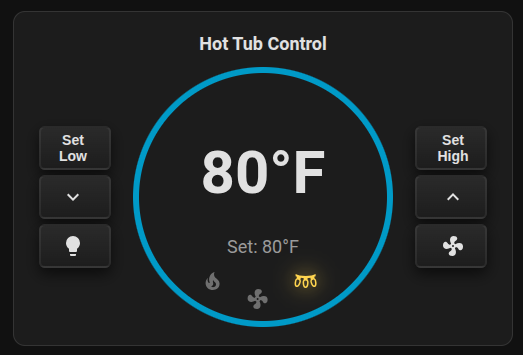
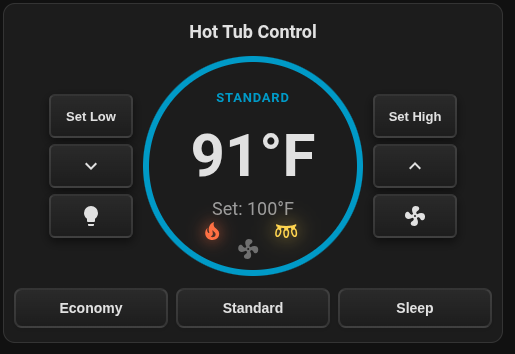
Fixed mode change operator

diff --git a/esp32-spa/inputs/esp32-spa.h b/esp32-spa/inputs/esp32-spa.h
@@ -200,8 +200,11 @@ class HotTubDisplaySensor : public esphome::Component, public esphome::sensor::S
       {0b0111011, 'Y'}, // Y
       {0b0111101, 'd'}, // d 
       {0b0000101, 'r'}, // r
-      {0b1011011, 'S'}, // S (same pattern as '5')
-      {0b0010101, 'n'}  // n (segments c,e,g)
+      {0b1011011, 'S'}, // S 
+      {0b0010101, 'n'}, // n 
+      {0b1001111, 'E'}, // E 
+      {0b0001111, 't'}, // t 
+      {0b0001101, 'c'}  // c 
     };
 
     // Prefer letter matches only (we intentionally avoid returning digits here)
@@ -267,10 +270,10 @@ class HotTubDisplaySensor : public esphome::Component, public esphome::sensor::S
       gpio_set_level((gpio_num_t)PIN_WRITE_BTN2, 0);
     });
     // Press LIGHTS 1s after the cool press to also capture the current heating mode on boot
-    this->set_timeout("boot_press_light_on",  6200, []() {
+    this->set_timeout("boot_press_light_on",  6700, []() {
       gpio_set_level((gpio_num_t)PIN_WRITE_BTN3, 1);
     });
-    this->set_timeout("boot_press_light_off", 6400, []() {
+    this->set_timeout("boot_press_light_off", 6900, []() {
       gpio_set_level((gpio_num_t)PIN_WRITE_BTN3, 0);
     });
   }
@@ -304,8 +307,8 @@ class HotTubDisplaySensor : public esphome::Component, public esphome::sensor::S
         // Ensure we release it after a short duration (mirror existing press timing)
         this->set_timeout("auto_press_cool", 200, [](){ gpio_set_level((gpio_num_t)PIN_WRITE_BTN2, 0); });
         // Press Lights 1s after Cool press to also capture the current heating mode
-        this->set_timeout("auto_press_light_on",  1200, []() { gpio_set_level((gpio_num_t)PIN_WRITE_BTN3, 1); });
-        this->set_timeout("auto_press_light_off", 1400, []() { gpio_set_level((gpio_num_t)PIN_WRITE_BTN3, 0); });
+        this->set_timeout("auto_press_light_on",  1700, []() { gpio_set_level((gpio_num_t)PIN_WRITE_BTN3, 1); });
+        this->set_timeout("auto_press_light_off", 1900, []() { gpio_set_level((gpio_num_t)PIN_WRITE_BTN3, 0); });
         // Update timer to avoid repeated presses
         last_set_sent_time_ms = now;
         // Also reset heartbeat timing so we don't immediately publish stale data
@@ -497,27 +500,33 @@ class HotTubDisplaySensor : public esphome::Component, public esphome::sensor::S
     // Publish spa mode when a stable mode string is detected
     if (is_mode_string) {
       std::string mode_str;
-      if      (c2_char == 'E') mode_str = "economy";
-      else if (c2_char == 'S' && c3_char == 'L') mode_str = "sleep";
-      else                     mode_str = "standard";
+      if      (c2_char == 'S' && c3_char == 't') mode_str = "Standard";
+      else if (c2_char == 'E' && c3_char == 'c') mode_str = "Economy";
+      else if (c2_char == 'S' && c3_char == 'L') mode_str = "Sleep";
+      else                                        mode_str = ""; // unrecognised — skip
 
-      if (candidate_mode_ == mode_str) { if (stable_mode_ < 255) stable_mode_++; }
-      else                             { candidate_mode_ = mode_str; stable_mode_ = 1; }
+      if (!mode_str.empty()) {
+        if (candidate_mode_ == mode_str) { if (stable_mode_ < 255) stable_mode_++; }
+        else                             { candidate_mode_ = mode_str; stable_mode_ = 1; }
 
-      if (stable_mode_ >= MODE_STABLE_THRESHOLD && mode_str != last_mode_) {
-        last_mode_ = mode_str;
-        if (spa_mode_text_sensor_) spa_mode_text_sensor_->publish_state(last_mode_);
-        ESP_LOGI(TAG, "Spa mode published: %s", last_mode_.c_str());
-      }
-    } else if (temp >= 0) {
-      // Valid temperature visible -> standard operation
-      if (candidate_mode_ != "standard") { candidate_mode_ = "standard"; stable_mode_ = 1; }
-      else if (stable_mode_ < 255) stable_mode_++;
+        if (stable_mode_ >= MODE_STABLE_THRESHOLD && mode_str != last_mode_) {
+          last_mode_ = mode_str;
+          if (spa_mode_text_sensor_) spa_mode_text_sensor_->publish_state(last_mode_);
+          ESP_LOGI(TAG, "Spa mode published: %s", last_mode_.c_str());
 
-      if (stable_mode_ >= MODE_STABLE_THRESHOLD && last_mode_ != "standard") {
-        last_mode_ = "standard";
-        if (spa_mode_text_sensor_) spa_mode_text_sensor_->publish_state(last_mode_);
-        ESP_LOGI(TAG, "Spa mode published: standard (normal operation)");
+          // Mode appearing means Light was pressed, ending the set-temp flash sequence.
+          // If we have a recent set temp potential, confirm and publish it now.
+          if (in_set_mode && set_temp_potential >= 0 && set_temp_potential != last_set_temp
+              && (now - last_candidate_temp_time <= 3000)) {
+            last_set_temp = set_temp_potential;
+            if (set_temp_sensor_) {
+              set_temp_sensor_->publish_state(static_cast<float>(last_set_temp));
+              ESP_LOGD(TAG, "Publishing set temp: %d [confirmed by mode string]", last_set_temp);
+            }
+            last_set_sent_time_ms = now;
+            last_publish_time = now;
+          }
+        }
       }
     } else if (!is_set_indicator) {
       // Unknown display state — reset mode candidate

diff --git a/README.md b/README.md
@@ -7,11 +7,13 @@
 
 ## Description
 
-This project adds an ESP32 to a Balboa GS100 (VL260 topside) to send and receive data using ESPHome and Home Assistant. It provides wiring, measurement notes, and an ESPHome configuration to integrate the spa panel with Home Assistant.
+This project adds an Wifi module to a Balboa Hot Tub. This project has been tested with a few Balboa control boards and seems to work with any VL200 series or VL400 series topside controllers. I imagine any 3 or 4-button Balboa topside controllers with RJ45 connectors would have a very similar setup. 
 
-This has only been tested with a Balboa GS100 control board and the VL260 topside panel, but this project should work for any spa with the VL260 topside panel. I imagine any 4-button Balboa topside controller would have a very similar setup. 
+---
 
-The GS100 has an RJ45 connector that sends and receives data to the topside panel. This project taps into that signal by creating a project box that the topside panel will plug into, and then with another ethernet type cable connect the project box back to the GS100 control board.
+## Purchase Option
+
+Everything you need to know to build a module is contained in this repository. However, I do have some modules available for purchase as well.
 
 ---
 
@@ -78,6 +80,7 @@ device_name: 'esp32-spa'      # required - replace with your esp device name
 title: 'Hot Tub Control'     # optional - card title
 high_setting: 103         # optional - Temp for one button press to high temp 
 low_setting: 80    # optional - Temp for one button press to low temp
+show_mode_buttons: true   # optional - show/hide Economy/Standard/Sleep buttons (default: true)
 
 ```
 
@@ -92,6 +95,14 @@ If the card doesn't appear immediately, try a hard-refresh (Ctrl/Cmd+Shift+R) or
 - This integration exposes a `text_sensor` for error codes (sensor.<device name>_spa_error_code). The text sensor shows the 2‑character code from the topside display and a friendly translation when available, for example:
 
   - `HH - high overheat (water temp over 118 F)`
+
+---
+
+## Heating Mode
+
+This integration exposes a `text_sensor` for the current heating mode (`sensor.<device_name>_spa_mode`). The possible states are **Standard**, **Economy**, and **Sleep**. Standard mode turns the heater and circulation pump on whenever the measured temperature drops below the set temperature. Economy only heats when the circulation pumps are programmed to run. Sleep mode also only heats when the circulation pumps are programmed to run, but also only heats to ~10C/20F below the set temperature. 
+
+The mode is detected by reading the 7-segment display characters `St`, `Ec`, or `SL` that the Balboa controller briefly shows during mode selection. The device automatically reads the current mode on boot (and every 30 minutes) by pressing the Cool button followed by the Light button.
 
 
 ### Example Home Assistant automation (mobile push notification)
@@ -176,11 +187,11 @@ Logic analyzer screenshot:
 ## Images
 
 
-![Connectors](docs/connectors.png)
+![PCB](docs/pcb.jpg)
 
-![PCB](docs/pcb.png)
+![Project Box](docs/box.jpg)
 
-![Mounted](docs/mounted.png)
+![Mounted](docs/mounted.jpg)
 
 ---
 